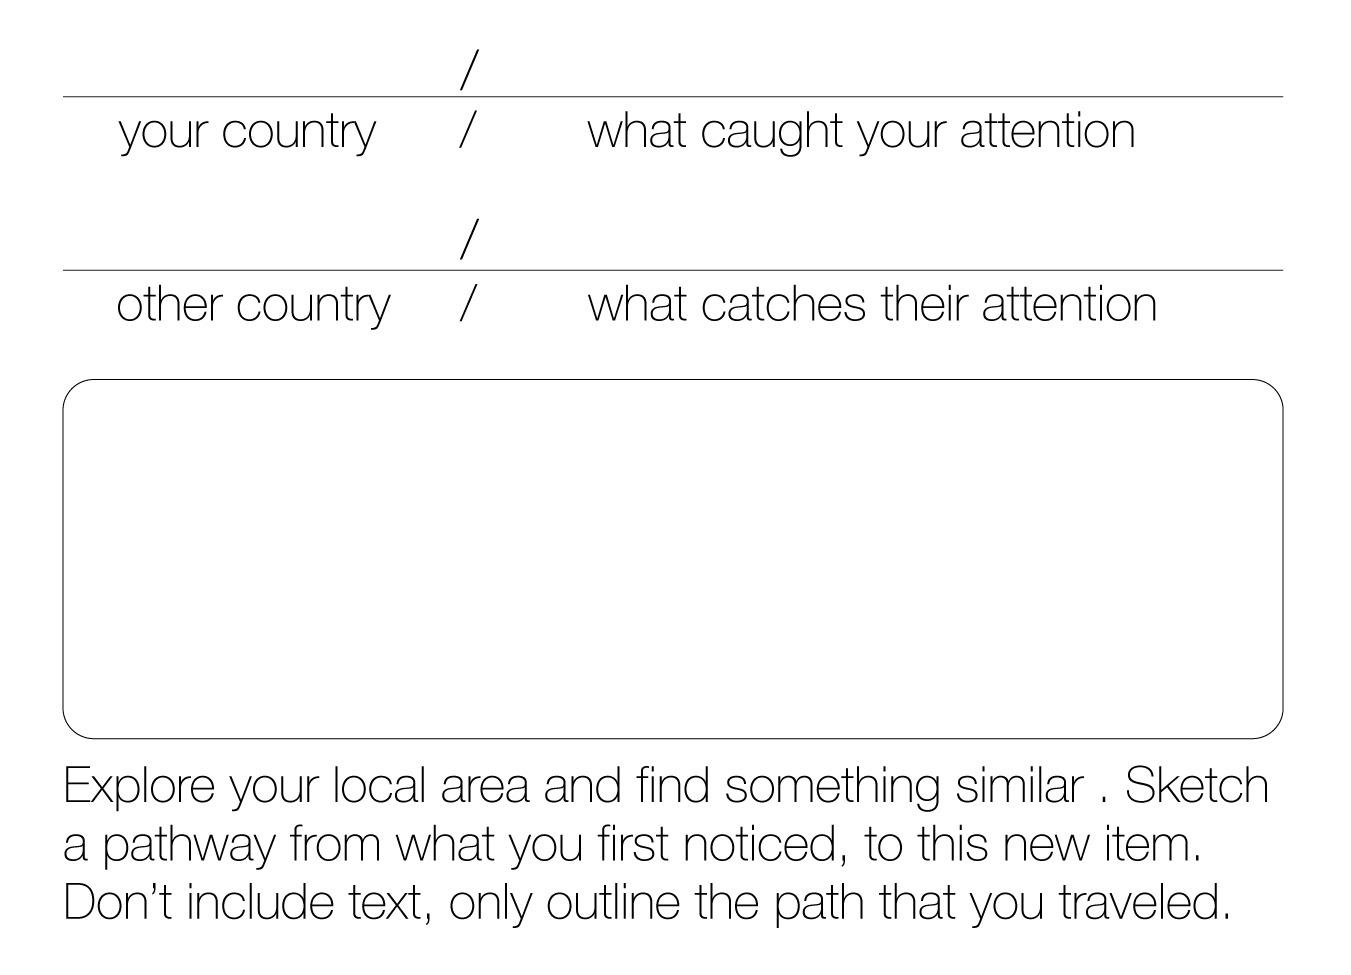
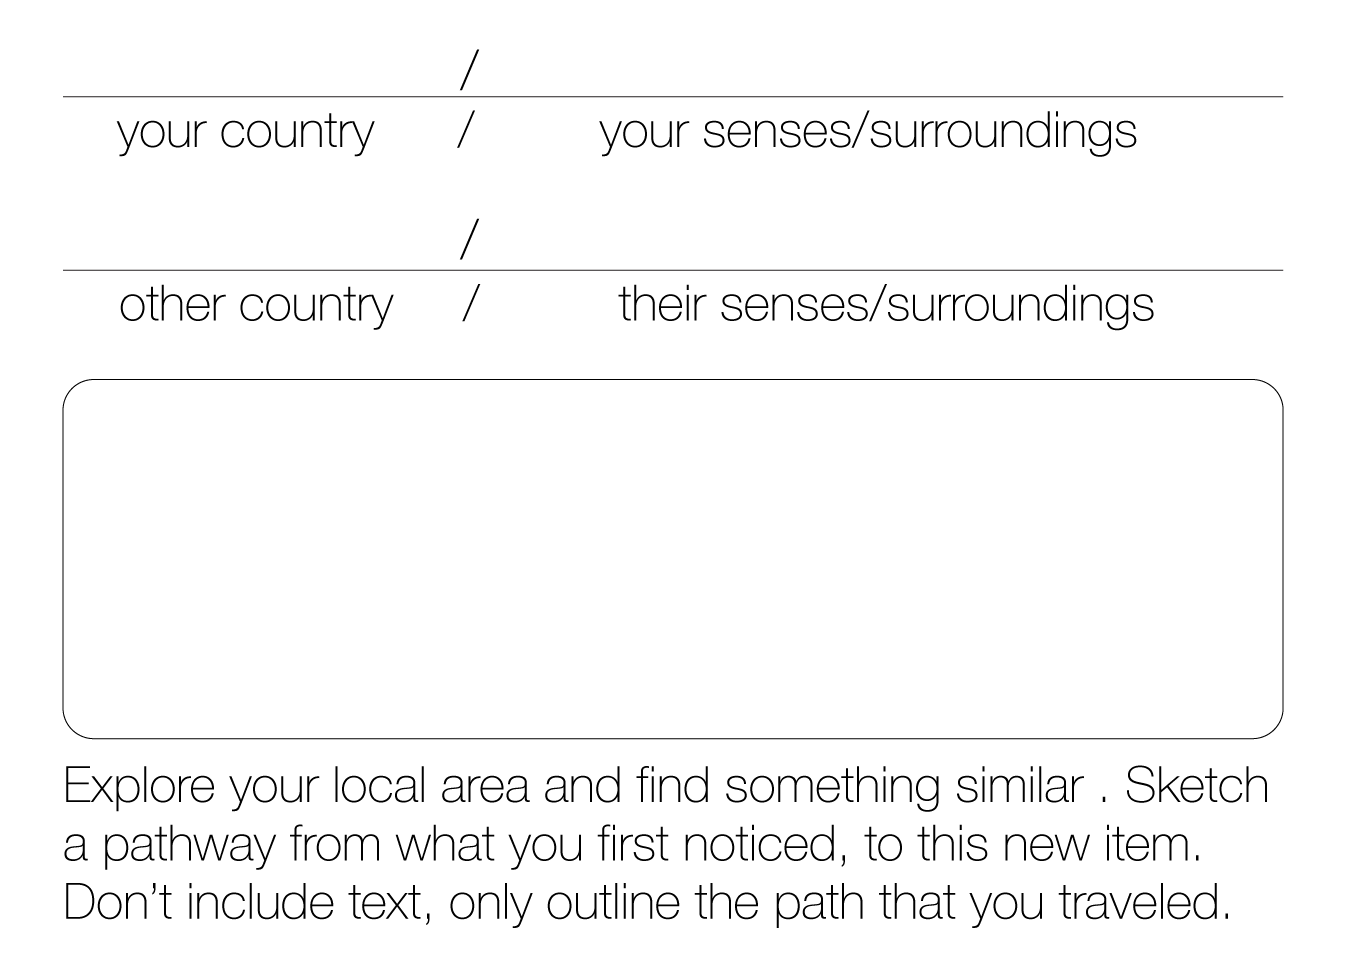
prompt updates

diff --git a/prompt6.html b/prompt6.html
@@ -30,13 +30,13 @@
     <br>
 
     <div>
-        <h2 class="display-4">Prompt 6: Senses and Attractions</h2>
+        <h2 class="display-4">Prompt 6: Senses and Surroundings</h2>
 
         <h3>Objective:</h3>
         <p class="lead">Observe what attracts people's attention around the world.</p>
 
         <div class="img-header">
-            <img src="images/p6-back.png"><img src="images/p6-back.png">
+            <img src="images/p6-back.png"><img src="images/examples/ex_P6.png">
         </div>
         
         <h3>Start Here:</h3>
@@ -45,17 +45,20 @@
         <h3>The Task:</h3>
         <ul>
             <li>If you live in an urban, suburban, or rural area, find a similar area in another country.</li>
-            <li>Create a list of possible sights, sounds, or scents that can be found in this other area.</li>
+            <li>Research one or two possible sights, sounds, or scents that can be found in this other area.</li>
         </ul>
 
         <h3>Consider:</h3>
         <ul>
-            <li>How do this list relate to what is found where you live?</li>
-            <li>Do these senses affect daily life in either location?</li>
+            <li>How do these items relate to what is found where you live?</li>
+            <li>How might their way of life reflect their senses and surroundings?</li>
         </ul>
         
         <h3>Example:</h3>
-        <p></p>
+        <p>I live in an urban area, and there are a few high rise apartment buildings being built in my neighborhood. I often hear construction noise, and the buildings themselves tower over their surroundings.
+            <br>I decided to explore Kathmandu, Nepal, which is a similarly sized urban area. The Dharahara Tower was the tallest building in the city. It has been built and rebuilt a few times, starting in 1824. Multiple earthquakes have destroyed the structure, most recently in 2015. After the 2015 quake, the tower was rebuilt with earthquake resistant materials and inaugurated in 2021.
+            <br><a href="https://www.tourismkathmandu.com/things_to_do/places_of_interest/history_and_heritage_sights/details/dharahara">Learn more about the Dharahara Tower here.</a>    
+        </p>
         <br> <br>
 
         <a class="btn btn-primary" href="images/p6-back.png" download>Download card</a>

diff --git a/prompt5.html b/prompt5.html
@@ -36,7 +36,7 @@
         <p class="lead">Observe what inspires people around the world.</p>
 
         <div class="img-header">
-            <img src="images/p5-back.png"><img src="images/p5-back.png">
+            <img src="images/p5-back.png"><img src="images/examples/ex_P5.png">
         </div>
         
         <h3>Start Here:</h3>
@@ -56,7 +56,11 @@
         </ul>
         
         <h3>Example:</h3>
-        <p></p>
+        <p>I am inspired by fantasy novels and geometric patterns. I also like to use my favorite notebook to encourage thinking.
+            <br>Intricate patterns make up a lot of Islamic art. These patterns are created using geometry, natural motifs(or arabesque), and calligraphy. This type of art decorates buildings, floors, and all kinds of objects. The patterns can easily repeat and fill spaces of all sizes.
+            <br>Some famous buildings are the Taj Mahal and the Alhambra.
+            <br><a href="https://www.metmuseum.org/toah/hd/geom/hd_geom.htm">Learn more about Islamic art and patterns here.</a>
+            </p>
         <br> <br>
 
         <a class="btn btn-primary" href="images/p5-back.png" download>Download card</a>

diff --git a/index.html b/index.html
@@ -94,7 +94,7 @@
         <div class="card" style="width: 18rem;">
             <img src="images/p6-back.png" class="card-img-top" alt="...">
             <div class="card-body">
-            <h5 class="card-title">Senses and Distractions</h5>
+            <h5 class="card-title">Senses and Surroundings</h5>
             <p class="card-text">What captures our attention?</p>
             <a href="prompt6.html" class="btn btn-primary">Go to prompt</a>
             </div>

diff --git a/prompt1-gallery.html b/prompt1-gallery.html
@@ -31,7 +31,7 @@
 
     <div>
         <h2 class="display-4">Prompt 1: Language and Translation</h2>
-        <p class="lead">Hover over the images to see what others have explored.</p>
+        <p class="lead">Hover over or click the images to see what others have explored.</p>
 
         <div class="gallery-grid">
             <div class="container">

diff --git a/prompt2-gallery.html b/prompt2-gallery.html
@@ -31,7 +31,7 @@
 
     <div>
         <h2 class="display-4">Prompt 2: Dates and Holidays</h2>
-        <p class="lead">Hover over the images to see what others have explored.</p>
+        <p class="lead">Hover over or click the images to see what others have explored.</p>
 
         <div class="gallery-grid">
             <div class="container">

diff --git a/prompt3-gallery.html b/prompt3-gallery.html
@@ -31,7 +31,7 @@
 
     <div>
         <h2 class="display-4">Prompt 3: Identities</h2>
-        <p class="lead">Hover over the images to see what others have explored.</p>
+        <p class="lead">Hover over or click the images to see what others have explored.</p>
 
         <div class="gallery-grid">
             <div class="container">
